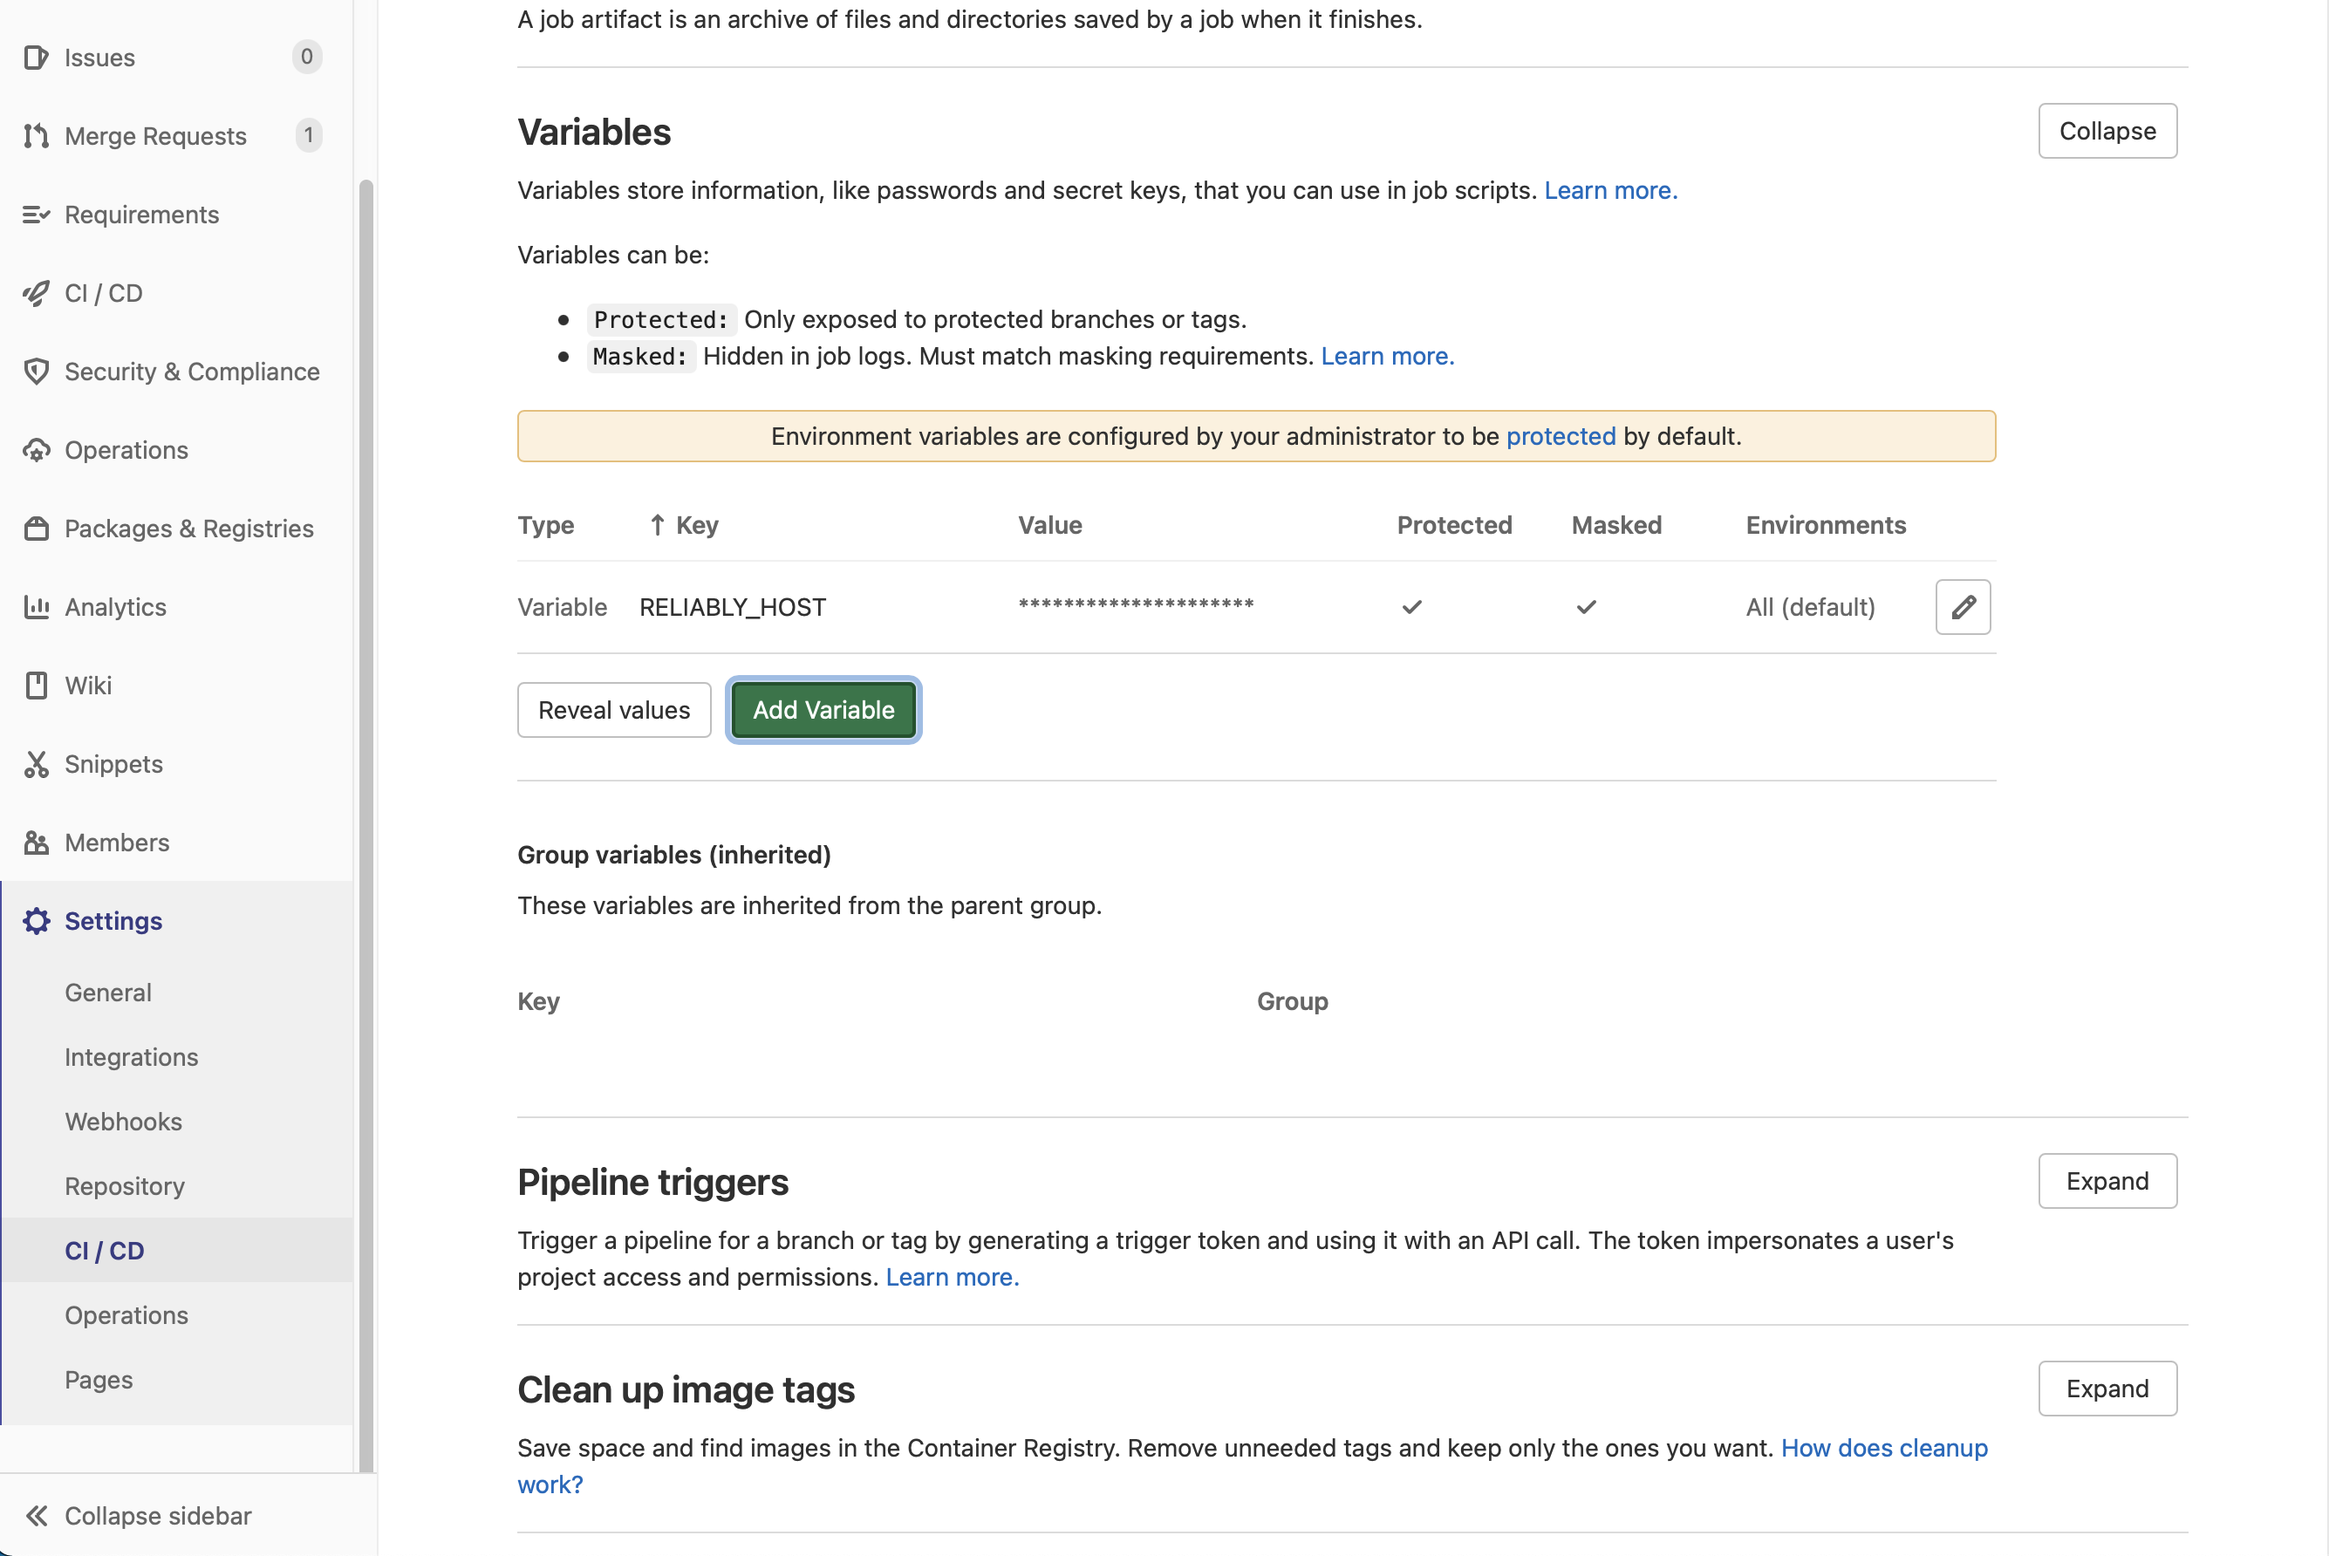
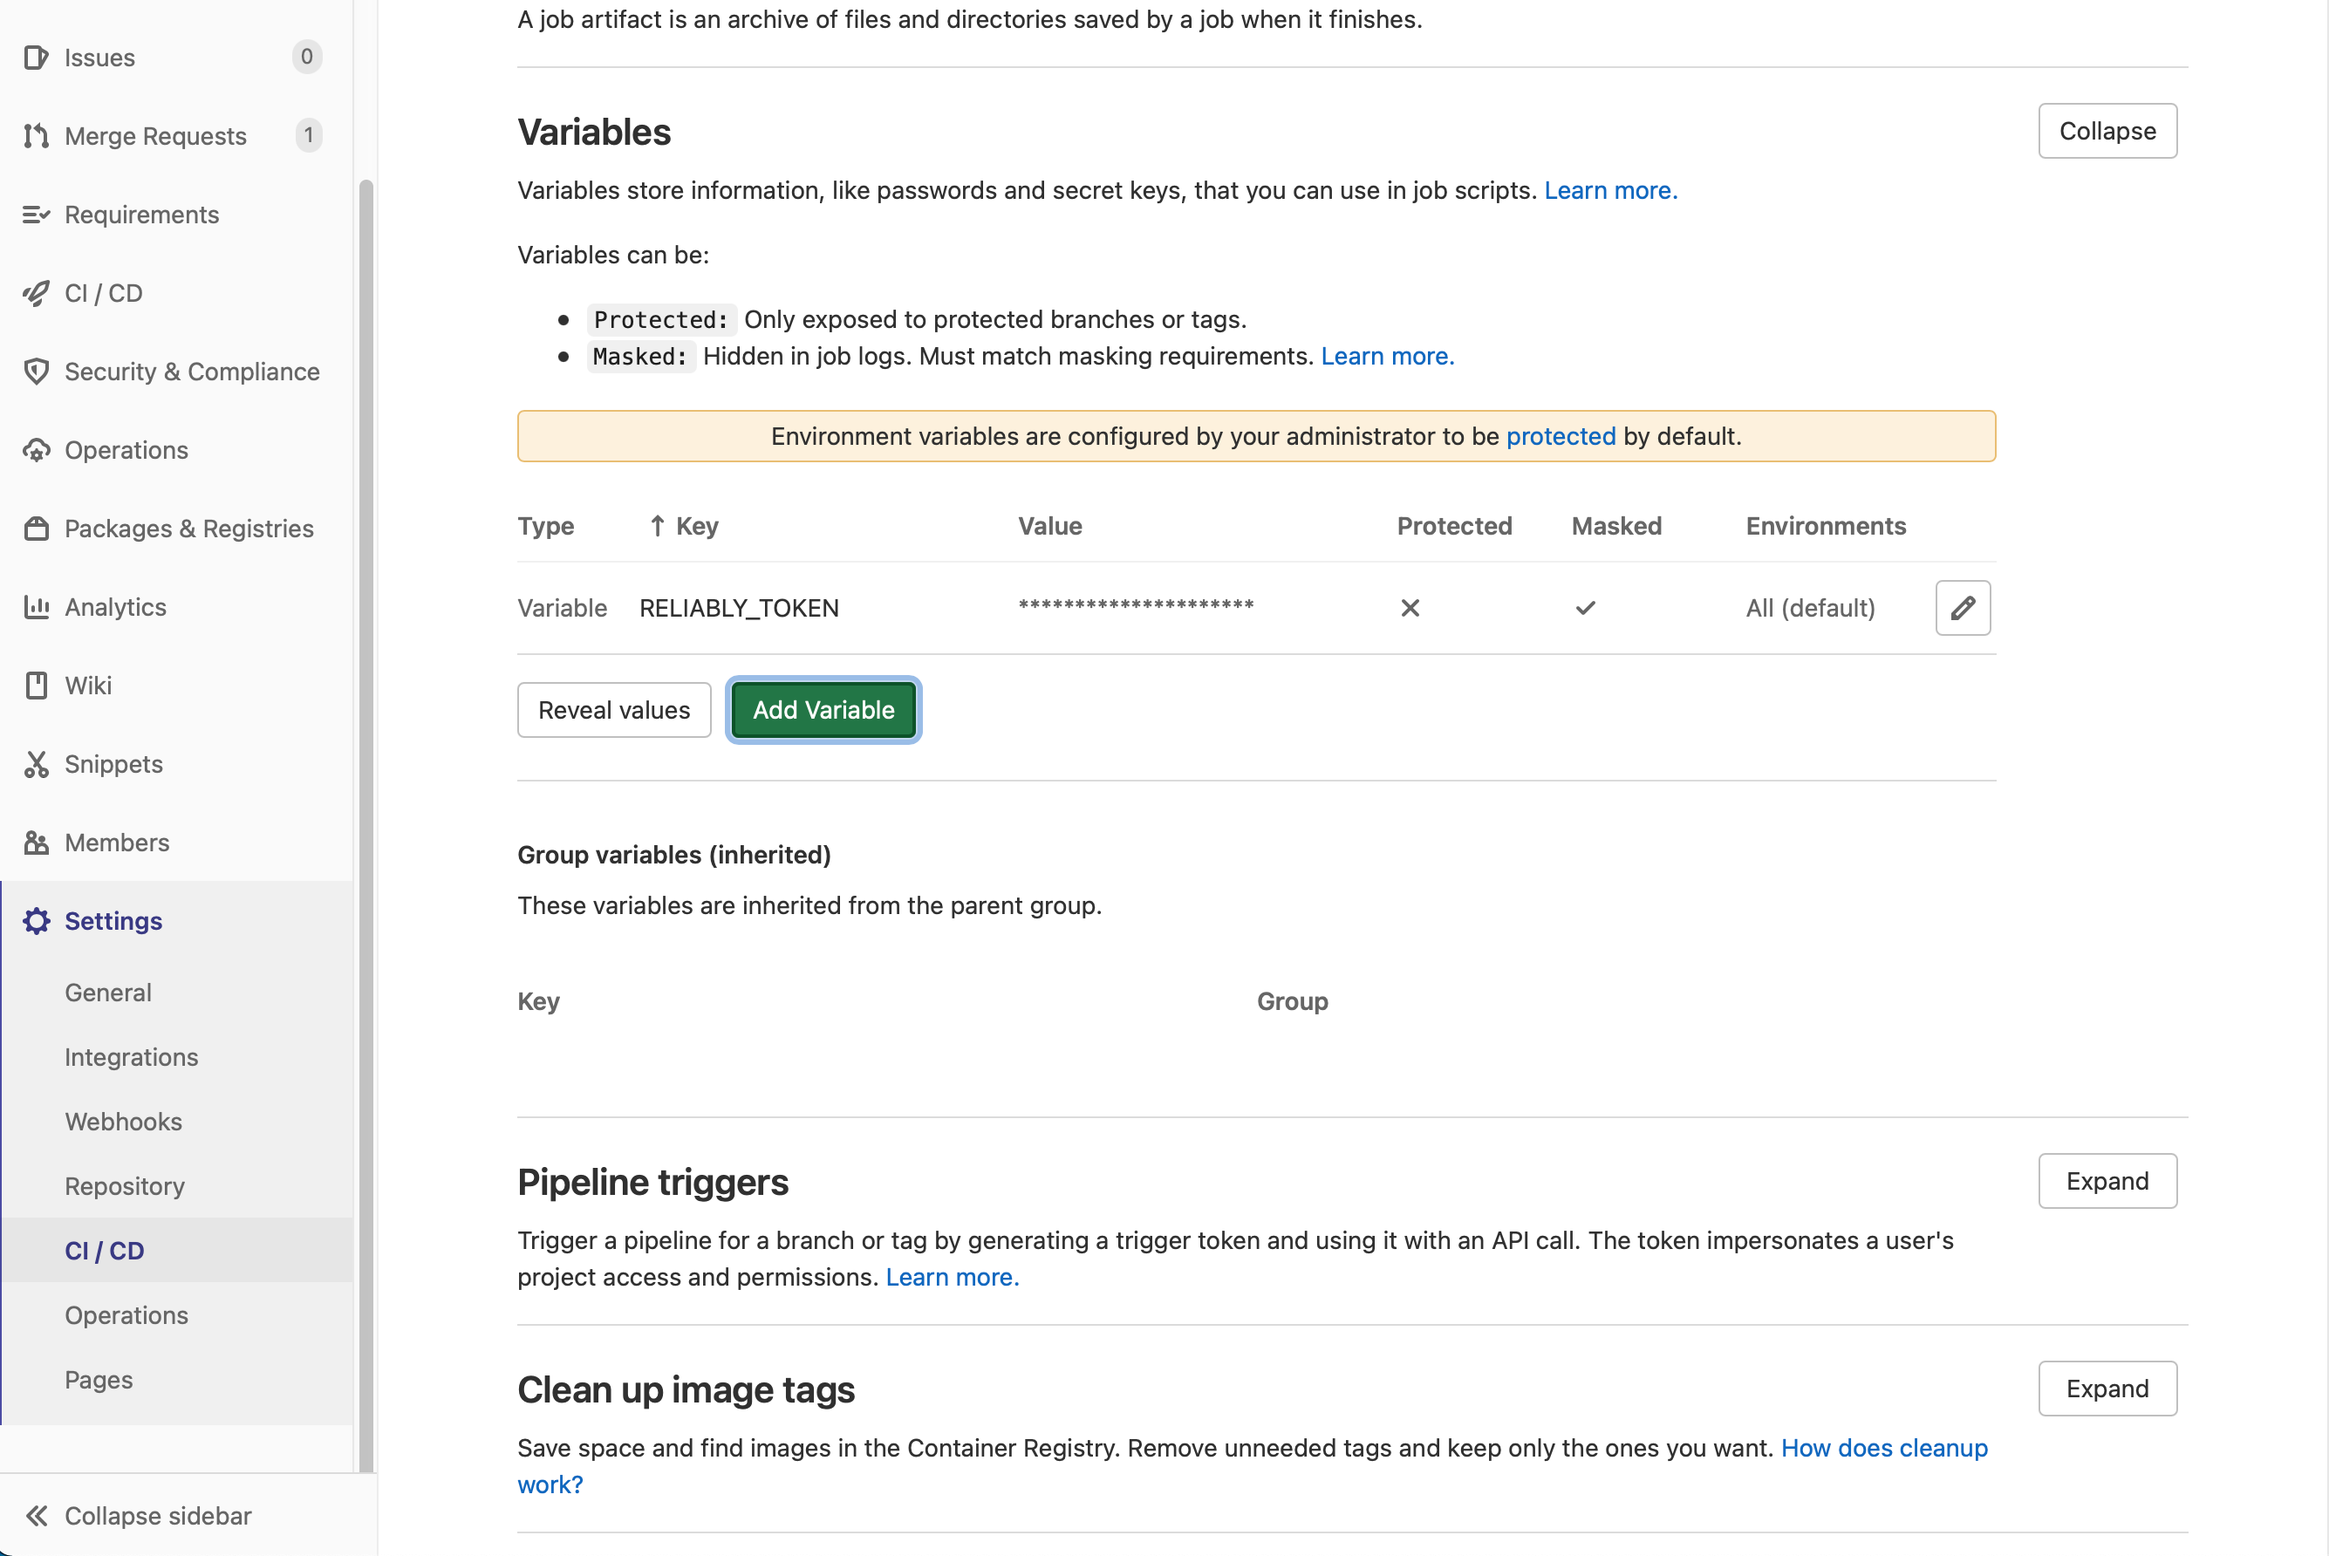
Add warning to define gitlab secret variable non-protected , or the CLI will not work (not being authenticated) with merge requests

Changed region(s): [[0.3109, 0.4316, 0.4041, 0.4933], [0.3109, 0.37, 0.373, 0.4008]]

diff --git a/docs/guides/ci-pipeline/gitlab-pipeline/index.md b/docs/guides/ci-pipeline/gitlab-pipeline/index.md
@@ -35,6 +35,11 @@ in your project's settings; See how to [create a custom variable in the UI]
 
 You can see how to [retrieve your access token](/getting-started/login/#retrieve-your-access-token/).
 
+:::warning Warning
+  Make sure to un-tick 'Protect variable' when creating your variable,
+  or the CLI will not be able to work with merge requests from branches.
+:::
+
 ## Add GitLab CI/CD to your repository
 
 For this walkthrough, we're going to add a CI/CD Pipeline to a new GitLab
